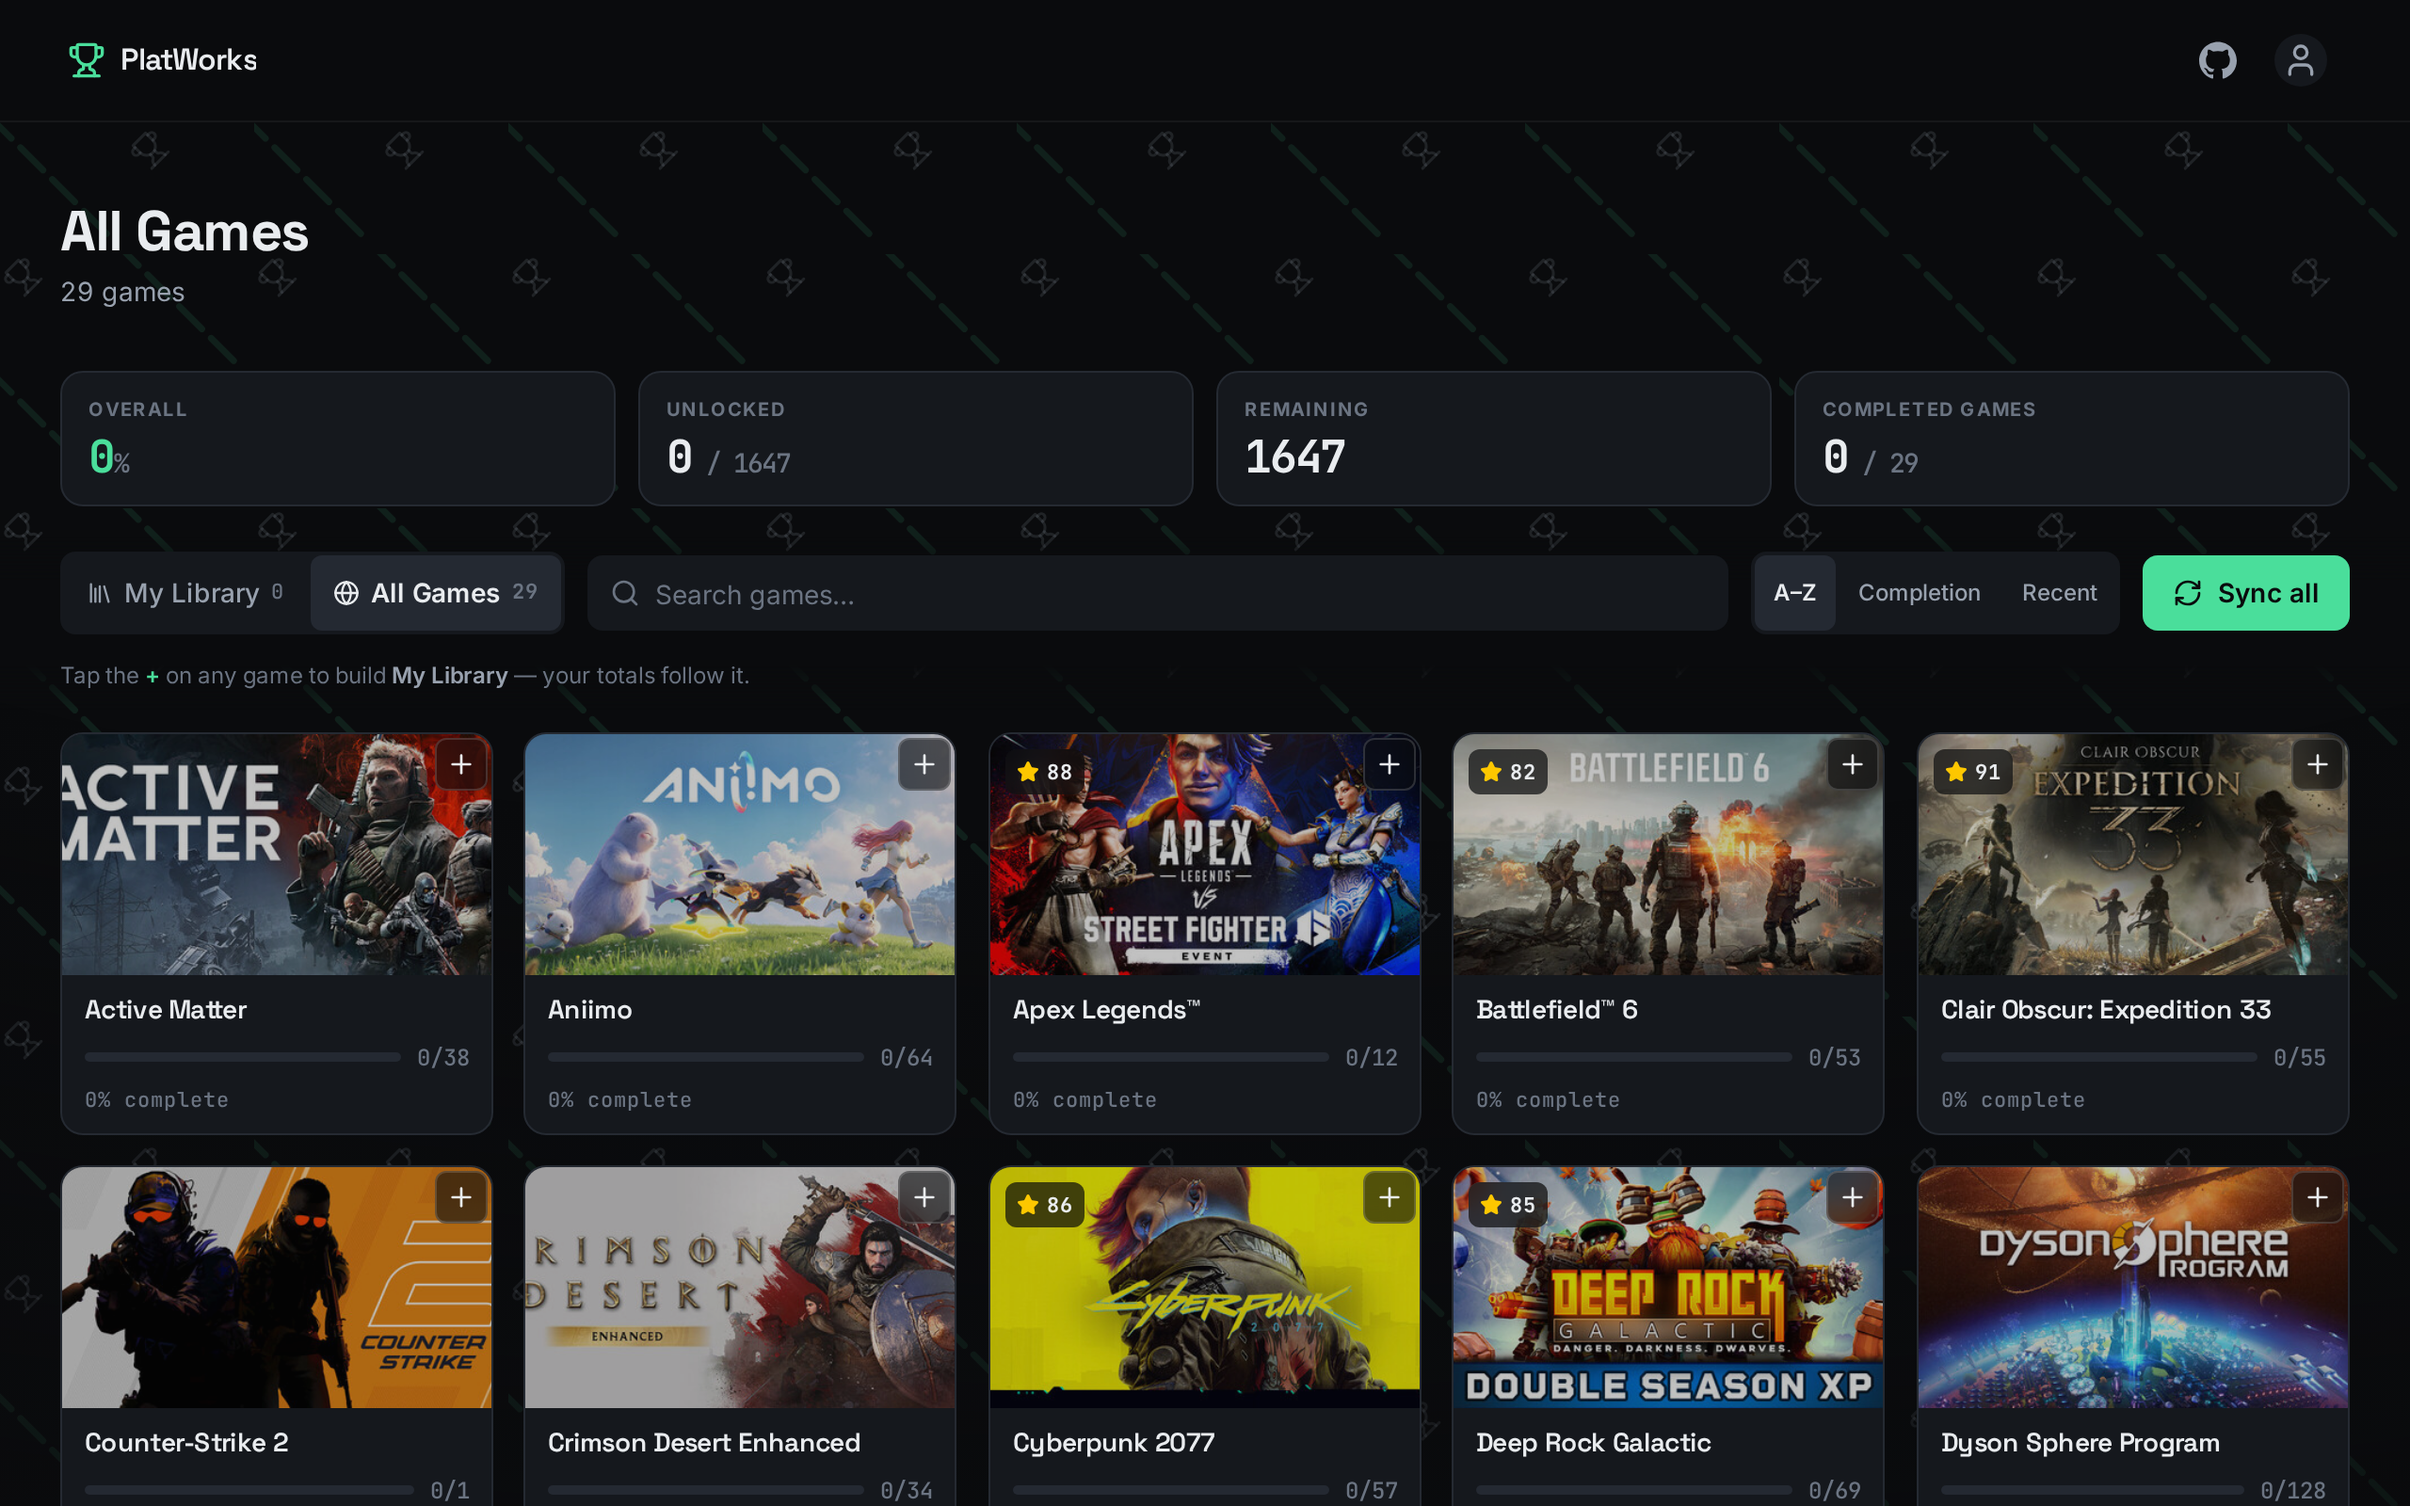
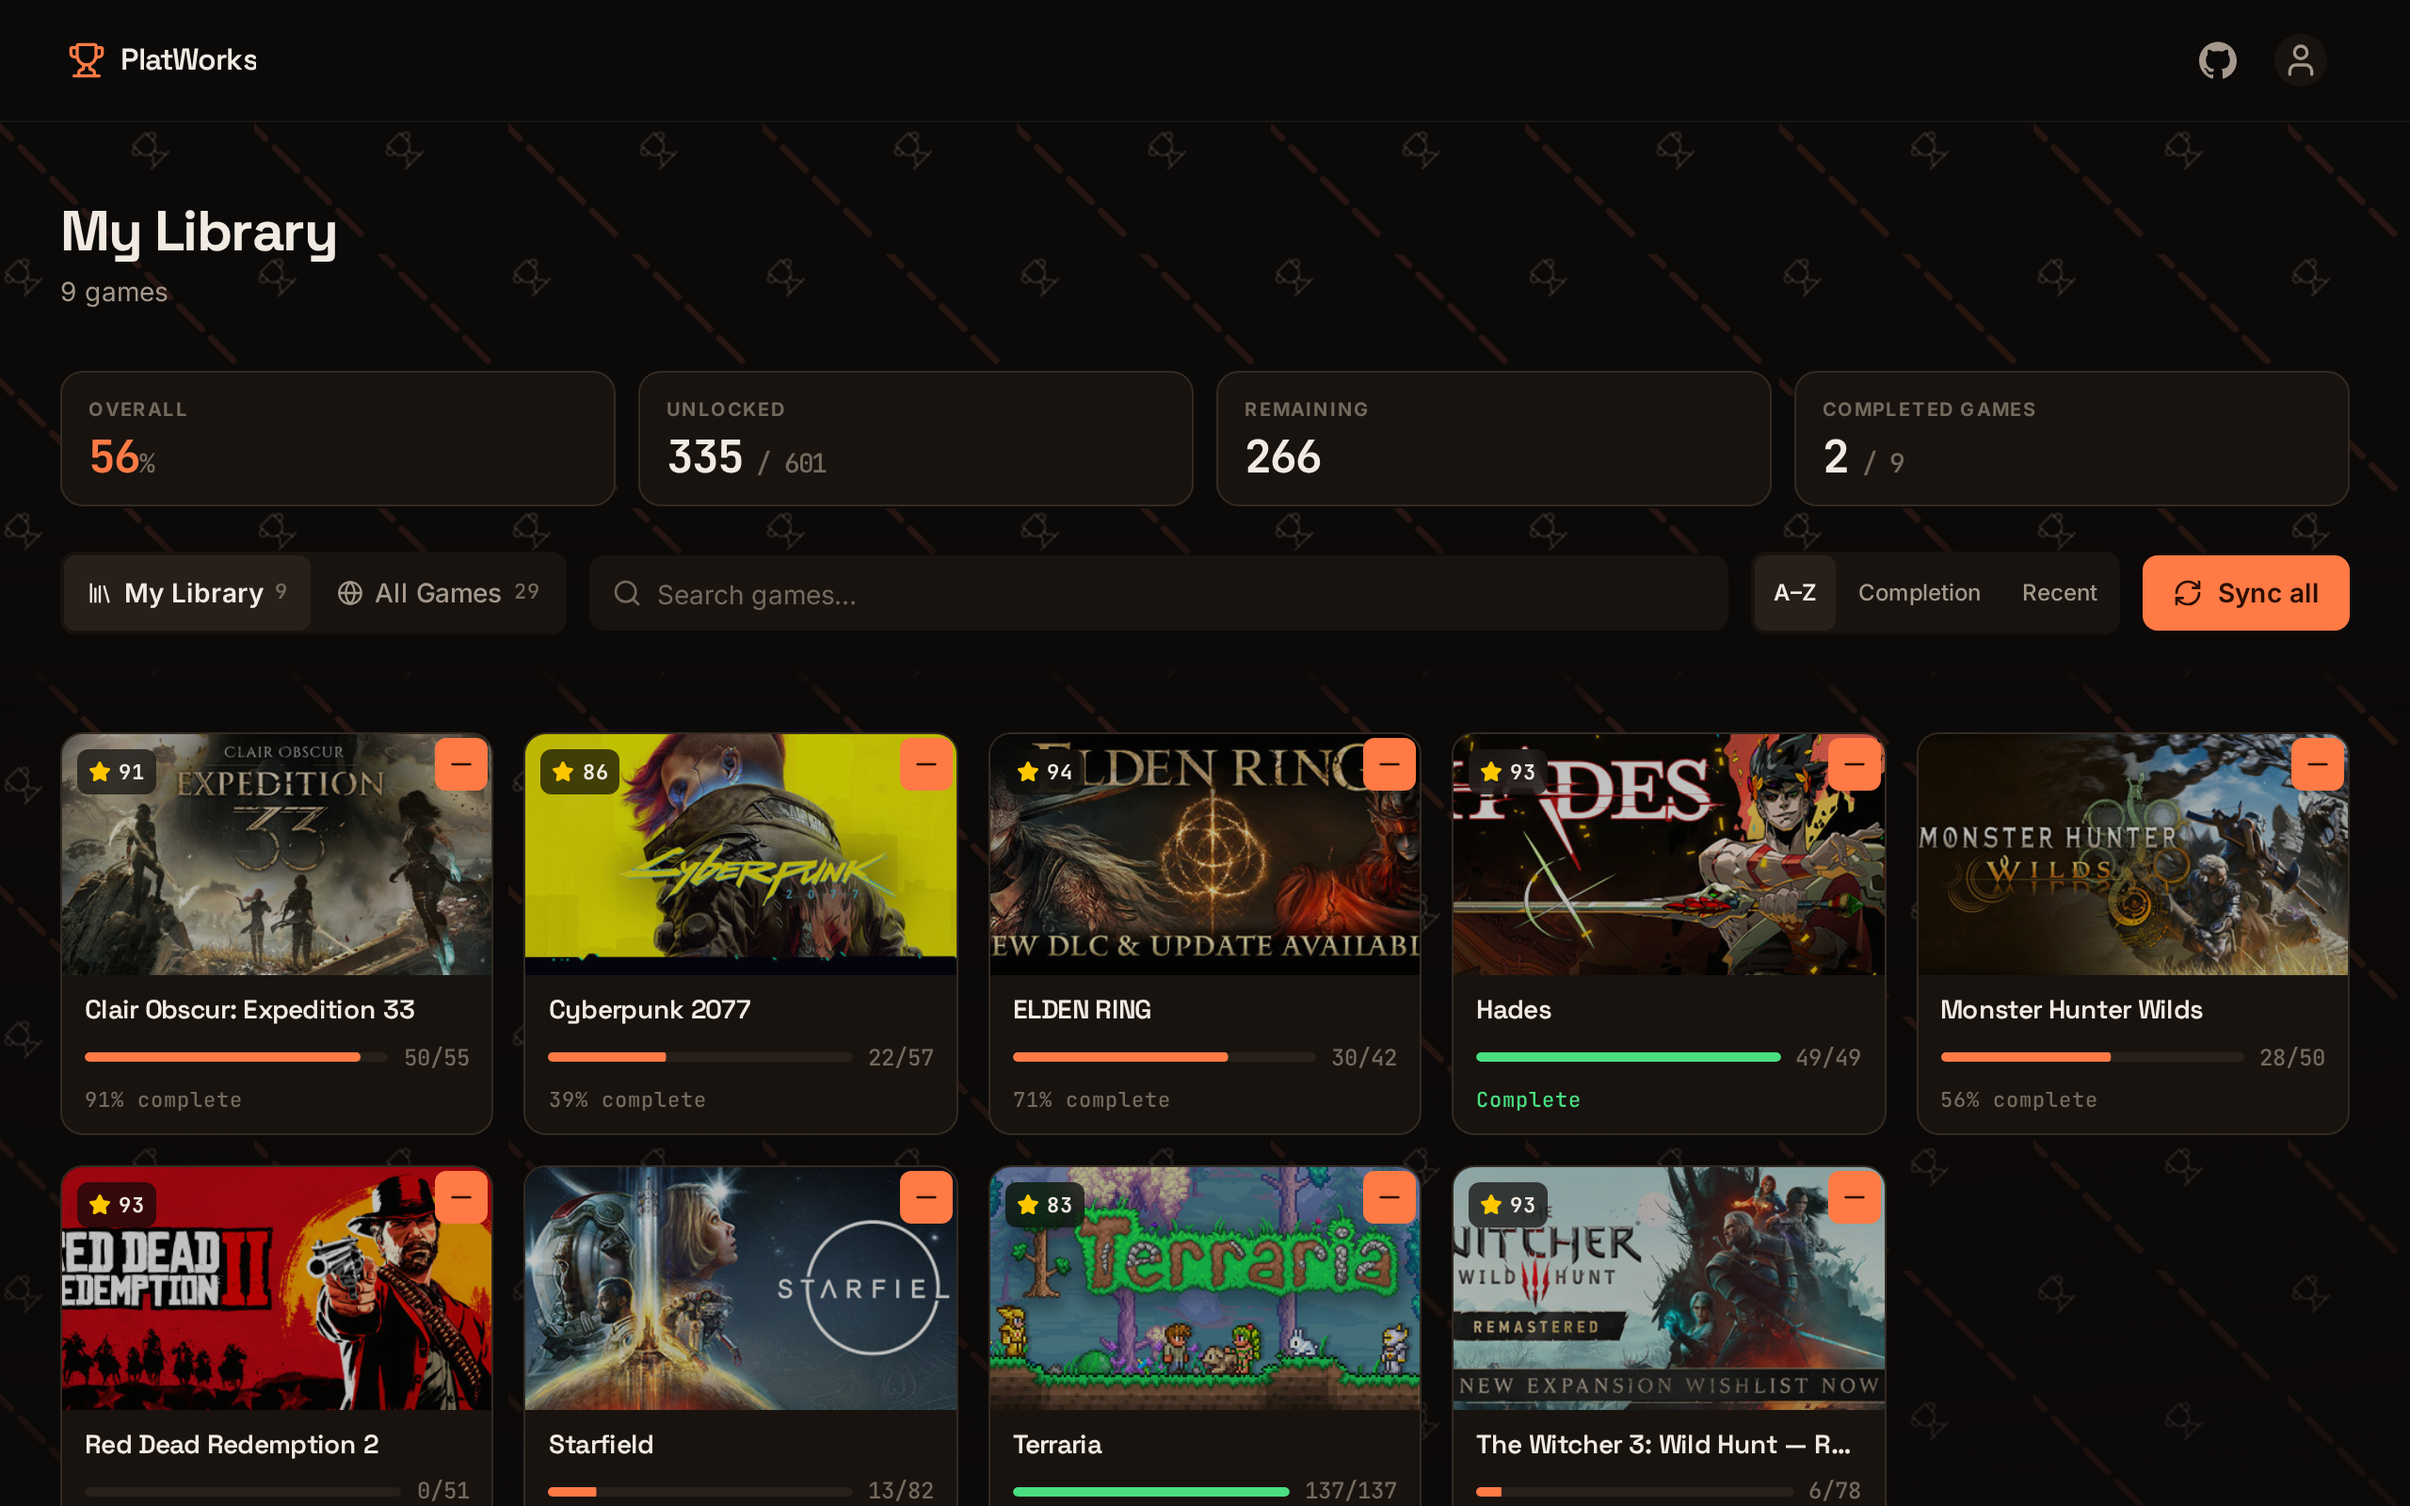
docs(readme): refresh the screenshots and require it before commits
docs/screenshots/library.png and game-page.png are committed binaries that
README.md embeds by path, so the UI work in 1648a92 never reached the README.
Nothing regenerates them at build time, and a PNG in a diff looks the same
whether or not it is current, so the drift survives review.

Adds scripts/agent/readme-shots.mjs so refreshing them is one command. Both
views are seeded from localStorage rather than a Steam account, so the output is
deterministic without an API key, and the achievement IDs are read from the
catalogue files so adding one cannot desync it. The scale stays 1280x800 @2x to
match what is already committed.

Records the requirement in .agents/ui.md, .agents/commits.md and AGENTS.md, and
corrects the game-page alt text to the 50/55 the run now seeds.

diff --git a/AGENTS.md b/AGENTS.md
@@ -130,7 +130,7 @@ table, then open only the matching files.
 | Steam API | `#lib/server/steam/api.ts` | server-only: `getGameDetails()`, `resolveSteamId()`, `getPlayerProfile()`, `getPlayerAchievements()`, `normalizeName()` |
 | Game loader | `#lib/server/games.ts` | `getAllGames()`, `getGameByAppId()` via `import.meta.glob('#lib/data/games/[0-9]*.json')` |
 | Icon tooling | `scripts/` | `fetch-game-images.mjs` (mirrors header + hero into `static/images/games/{appId}/`), `fetch-achievement-icons.mjs` (writes remote `iconUrl`), `verify-achievement-icons.mjs` (audits icons). Run with `node`, not npm |
-| Agent toolkit | `scripts/agent/` | Reusable scripts for agent tasks, committed so they are never rewritten per run: `ui-audit.mjs` (the browser audit below), `shot.mjs` + `new-mockup.mjs` (mockups), `steam-achievements.mjs` + `ledger.mjs` + `check-links.mjs` (game data). See [scripts/agent/README.md](scripts/agent/README.md). **A scratch file that will be needed again belongs here, not in `.tmp/`** |
+| Agent toolkit | `scripts/agent/` | Reusable scripts for agent tasks, committed so they are never rewritten per run: `ui-audit.mjs` (the browser audit below), `shot.mjs` + `new-mockup.mjs` (mockups), `readme-shots.mjs` (regenerates `docs/screenshots/`), `steam-achievements.mjs` + `ledger.mjs` + `check-links.mjs` (game data). See [scripts/agent/README.md](scripts/agent/README.md). **A scratch file that will be needed again belongs here, not in `.tmp/`** |
 | Agent rules | `AGENTS.md` + `.agents/*.md` | the project's memory: cross-cutting rules, architecture map, and one file per domain. Adapters for each AI tool live in `.github/`, `.cursor/` and `.claude/` and must stay thin — see §9 |
 | Game artwork | `static/images/games/{appId}/` | committed `header.jpg` + `hero.jpg`, served from `/images/games/...`. The app never requests Steam's CDN for these; achievement icons are the deliberate exception |
 | Client profile cache | `#lib/client/profile.ts` | `loadProfile()`, `saveProfile()`, `clearProfile()`, `refreshProfile()` |
@@ -142,7 +142,7 @@ table, then open only the matching files.
 | Game data | `#lib/data/games/{appId}.json` | per-game achievement guides |
 | Game-data scratch | `.tmp/game-data/{appId}/` | gitignored; fetch `ledger.json` + `findings.jsonl` + the parsed `achievements.json`. Repo-local on purpose — Windows + WSL must see the same path. Deleted when the run finishes; see [`.agents/gamedata.md`](./.agents/gamedata.md) §2b |
 | UI mockup scratch | `.tmp/ui/{slug}/` | gitignored; standalone HTML per proposition + `notes.md` + `shots/`. Repo-local for the same Windows/WSL reason. **Never deleted without asking** — see [`.github/prompts/ui-project.prompt.md`](.github/prompts/ui-project.prompt.md) |
-| README screenshots | `docs/screenshots/` | committed PNGs referenced by `README.md` |
+| README screenshots | `docs/screenshots/` | committed PNGs referenced by `README.md`. **Regenerate with `node scripts/agent/readme-shots.mjs` before committing any visible change** — nothing in the build does it for you, and stale binaries are invisible in review. See [`.agents/ui.md`](./.agents/ui.md) §6 |
 | Layout | `src/routes/+layout.svelte` | navbar + account popover + the background pattern layer; owns `platworks:steamId` |
 | Routes | `src/routes/` | `/` library · `/game/[appId]` detail · `/api/steam/sync/[appId]` · `/api/steam/profile` · `/linktest` |
 

diff --git a/.agents/ui.md b/.agents/ui.md
@@ -771,6 +771,37 @@ which no centre-point check can see.
 `ui-audit.mjs` writes one PNG per route and width to `.tmp/audit-shots/`. **Open them.** A rendering
 bug and an overlap bug are both obvious in an image and invisible to every other check.
 
+### The README's two screenshots are committed — refresh them before you commit
+
+`docs/screenshots/library.png` and `docs/screenshots/game-page.png` are **committed binaries**, and
+`README.md` embeds them by path. Nothing in the build regenerates them, so a UI change leaves the
+README advertising a build that no longer exists — and the drift is invisible in review, because a
+PNG in a diff is just a PNG.
+
+**Any commit that changes something a user can see in `src/routes/**`, `src/lib/components/**` or
+`src/app.css` must refresh both files** unless that change provably cannot alter either view (a
+comment, a type, a script under `scripts/`). When in doubt, regenerate: it is one command and
+produces a no-op diff when nothing moved.
+
+```bash
+node scripts/agent/readme-shots.mjs                          # → docs/screenshots/
+node scripts/agent/readme-shots.mjs --out-dir .tmp/…        # look before you commit
+```
+
+It starts no dev server — find one on `:5173`/`:4173` or run `npm run dev` first. Three things
+about it that are not obvious:
+
+- **State is seeded from localStorage, never from a Steam account.** `platworks:library` and
+  `platworks:checked:{appId}` fully determine both views, so the output is deterministic without an
+  API key, and the achievement IDs are read from `src/lib/data/games/*.json` — adding an achievement
+  cannot desync it.
+- **The scale is fixed at 1280×800 @2x.** It matches the committed PNGs; changing it turns every
+  regeneration into a full-size diff in GitHub's media viewer.
+- **Sync the alt text to whatever the run printed.** It prints the trophy count it seeded
+  (`ok game-page (50/55 trophies)`). `README.md`'s `alt` names that count, so a catalogue that grows
+  under a stale `alt` describes a game page that no longer exists. If you prefer not to hardcode a
+  count, rewrite the `alt` to describe the *kind* of number instead — but pick one and keep it true.
+
 ### Never paste a screenshot into a reply — link the HTML
 
 Screenshots are **your** verification step, not the user's deliverable. `shot.mjs` and

diff --git a/scripts/agent/README.md b/scripts/agent/README.md
@@ -20,6 +20,7 @@ It is the wrong place for a script that will be written again next week.
 |---|---|
 | `ui-audit.mjs` | Browser audit of the running app: overflow, duplicated controls, the 40px tap-target floor, console errors, screenshots, and declarative click checks. Implements [.agents/ui.md §6](../../.agents/ui.md) and phase 7 of [/ui-project](../../.github/prompts/ui-project.prompt.md). |
 | `shot.mjs` | Renders a mockup (or any URL) at 390 and 1440, reports overflow, console errors and under-sized tap targets, and prints the markdown to embed in a reply. Phase 3 of `/ui-project`. **The PNGs are for the agent to look at, not to paste into a reply** — the user reviews the mockup's `.html` in their browser. For a URL target, pass an explicit `--out .tmp/ui/...`: `--out-dir` is only honoured for directory targets and otherwise writes `shot-<width>.png` into the repo root. |
+| `readme-shots.mjs` | Regenerates the **committed** `docs/screenshots/library.png` and `game-page.png` that `README.md` embeds. State is seeded from localStorage, not a Steam account, so it is deterministic and key-free. Run it before committing anything that changes what a user sees — see [`.agents/ui.md`](../../.agents/ui.md) §6. |
 | `new-mockup.mjs` | Scaffolds `.tmp/ui/{slug}/` with the real palette from `app.css`, the real fonts from `app.html`, real game data from `src/lib/data/games/`, and the `notes.md` skeleton. |
 | `steam-achievements.mjs` | Fetches the Steam global achievement list once and parses it to `.tmp/game-data/{appId}/achievements.json`. Phase 2 of [/generate-game-data](../../.github/prompts/generate-game-data.prompt.md). |
 | `ledger.mjs` | The fetch ledger as a CLI: `check` before every request, `add` before fetching, `resolve` after. Enforces the "log before fetch" rule that stops the same wiki index being opened four times. |

diff --git a/.agents/commits.md b/.agents/commits.md
@@ -89,6 +89,9 @@ docs(agents): define Conventional Commits rules for future agents
 - [ ] Message is English and matches `<type>(scope): subject`
 - [ ] Staged set matches the message (no secrets: `.env`, credentials)
 - [ ] Domain agent file + README updated if behaviour/docs changed ([AGENTS.md §1](../AGENTS.md))
+- [ ] **If anything visible changed** (`src/routes/**`, `src/lib/components/**`, `src/app.css`):
+      `node scripts/agent/readme-shots.mjs` has been run and `docs/screenshots/*.png` are staged. See
+      [`.agents/ui.md`](./ui.md) §6 — they are committed binaries, so stale ones are invisible in review.
 - [ ] Prefer HEREDOC / here-string for the message body so formatting stays intact
 
 PowerShell example:

diff --git a/README.md b/README.md
@@ -23,7 +23,7 @@ button all follow your selection.
 
 ## A game's trophies
 
-<img src="docs/screenshots/game-page.png" alt="A game's trophy page: artwork, a progress ring showing 38 of 42 trophies, filters for completion and type, and a list of trophies you can tick off by tapping them." />
+<img src="docs/screenshots/game-page.png" alt="A game's trophy page: artwork, a progress ring showing 50 of 55 trophies, filters for completion and type, and a list of trophies you can tick off by tapping them." />
 
 Every trophy is a row you can **tap to tick off** — no checkboxes in a separate column, so the name of a
 long trophy like *"Rennala, Queen of the Full Moon"* still fits on one line on a phone.
